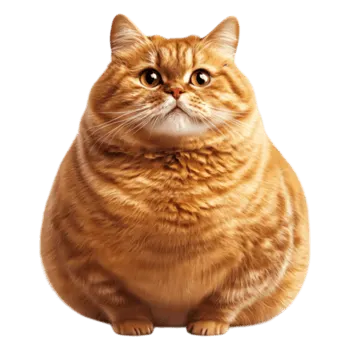
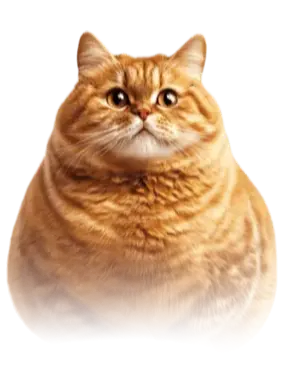
about sec start

diff --git a/src/components/Landing.tsx b/src/components/Landing.tsx
@@ -1,6 +1,5 @@
 import Image from "next/image";
 import React, { useEffect, useState } from "react";
-import GlowFlies from "./GlowFlies";
 import { motion } from "framer-motion";
 import WavingHand from "./WavingHand";
 
@@ -18,11 +17,11 @@ const Landing = () => {
     return () => window.removeEventListener("mousemove", handleMouseMove);
   }, []);
   return (
-    <div className="w-full pt-38 pb-18 h-full ">
+    <div className="w-full  pt-8 h-full ">
       <div className=" ">
-        <div className="flex gap-4 items-center justify-center">
+        <div className="flex gap-4 items-center justify-center  w-[75%] md:w-[90%] mx-auto">
           <WavingHand />
-          <h1 className="text-[clamp(1rem,3vw,1.75rem)] text-white">
+          <h1 className="text-[clamp(1rem,3vw,1.75rem)] text-white  ">
             My name is Ranjana Tamang a Fullstack Developer.
           </h1>
         </div>
@@ -32,34 +31,35 @@ const Landing = () => {
           style={{
             transform: `translate(${mouse.x * -0.02}px, ${mouse.y * -0.02}px)`,
           }}
-          className="absolute   h-[80%]   font-bold  select-none"
+          className="absolute pt-10 md:pt-20   h-[90%]   font-bold  select-none"
         >
-          <span className="uppercase text-transparent [-webkit-text-stroke:4px_white] text-[clamp(4rem,16vw,12rem)]">
+          <span className="uppercase text-transparent [-webkit-text-stroke:4px_white] text-[clamp(4rem,16vw,12rem)] opacity-60">
             Backend
           </span>
         </motion.h1>
 
-        {/* <img src="/hero.png" alt="hero" className="relative z-10 w-80" /> */}
         <div>
           <Image
-            src="/cat.webp"
+            src="/cat.png"
             alt="hero"
             width={1000}
             height={1000}
-            className="relative z-10 w-70 md:w-120 mt-12"
+            className="relative z-10 w-60 md:w-120 mt-12"
           />
-          <div className="absolute inset-y-0 left-1/2 -translate-x-1/2  w-full z-10">
+          {/* <div className="absolute inset-y-0 left-1/2 -translate-x-1/2  w-full z-10">
             <GlowFlies />
-          </div>
+          </div> */}
         </div>
 
         <motion.h1
           style={{
             transform: `translate(${mouse.x * 0.04}px, ${mouse.y * 0.04}px)`,
           }}
-          className="absolute z-20 h-full   font-bold flex items-end    "
+          className="absolute z-20 h-[90%]   font-bold flex items-end    "
         >
-          <span className="text-[clamp(4rem,16vw,12rem)]">& Frontend</span>
+          <span className="text-[clamp(2.5rem,12vw,10rem)] whitespace-nowrap">
+            & FRONTEND
+          </span>
         </motion.h1>
       </section>
     </div>

diff --git a/src/app/layout.tsx b/src/app/layout.tsx
@@ -1,16 +1,13 @@
 import type { Metadata } from "next";
-import { Geist, Geist_Mono } from "next/font/google";
+import { Instrument_Sans } from "next/font/google";
 import "./globals.css";
+
 import SmoothScroll from "@/components/SmoothScroll";
 
-const geistSans = Geist({
-  variable: "--font-geist-sans",
+const instrumentSans = Instrument_Sans({
+  variable: "--font-instrument-sans",
   subsets: ["latin"],
-});
-
-const geistMono = Geist_Mono({
-  variable: "--font-geist-mono",
-  subsets: ["latin"],
+  weight: ["400", "500", "600", "700"], // good for headings + body
 });
 
 export const metadata: Metadata = {
@@ -25,9 +22,8 @@ export default function RootLayout({
 }>) {
   return (
     <html lang="en">
-      <body
-        className={`${geistSans.variable} ${geistMono.variable} antialiased bg-[#010a10]`}
-      >
+      <body className={` ${instrumentSans.variable} antialiased  `}>
+        {"/" !== "/" && <div>asdfsaf</div>}
         <SmoothScroll />
         {children}
       </body>

diff --git a/src/components/Navbar.tsx b/src/components/Navbar.tsx
@@ -18,16 +18,16 @@ const Navbar = () => {
   return (
     <header
       className={`
-        fixed top-0 left-0 w-full  z-50 transition-all duration-300
-        ${scrolled ? "bg-[#01070ed0] backdrop-blur-md" : "bg-transparent"}
+        fixed top-0 left-0 w-full    z-50 transition-all duration-300
+        ${scrolled ? "bg-[#06131bd0] backdrop-blur-md" : "bg-transparent"}
       `}
     >
-      <nav className="relative flex items-center justify-between px-40 py-4">
+      <nav className="relative flex items-center justify-between container_my py-4">
         {/* Logo */}
         <div className="text-white font-bold text-xl">Ranjana</div>
 
         {/* Menu */}
-        <div className="flex gap-6 text-white">
+        <div className="  gap-6 text-white hidden md:flex">
           <Link href="/">Home</Link>
           <Link href="/about">About</Link>
           <Link href="/projects">Projects</Link>

diff --git a/src/components/Hero.tsx b/src/components/Hero.tsx
@@ -1,22 +1,19 @@
 "use client";
 
-
-import Image from "next/image"; 
+import Image from "next/image";
 import BubbleColumn from "./BubbleColumn";
 import GlowFlies from "./GlowFlies";
 import Navbar from "./Navbar";
 import Landing from "./Landing";
 
 export default function Hero() {
-  
-
   return (
     <section className="relative     w-full  ">
       <Image
         src="/banner-shape-light.svg"
         alt="background"
-        fill
         className="  absolute z-0  "
+        fill
       />
       <Navbar />
 
@@ -26,9 +23,9 @@ export default function Hero() {
       <div className="absolute inset-y-0 left-1/2 -translate-x-1/2  w-full">
         <GlowFlies />
       </div>
-      <Landing />
-
-      
+      <div className="pt-20">
+        <Landing />
+      </div>
     </section>
   );
 }

diff --git a/src/components/SmallCard.tsx b/src/components/SmallCard.tsx
@@ -1,0 +1,25 @@
+import React from "react";
+
+const SmallCard = () => {
+  return (
+    <div className="group relative w-64 h-40 rounded-xl p-[2px]">
+      <div
+        className="
+          absolute inset-0 rounded-xl opacity-0
+          transition-opacity duration-500
+          group-hover:opacity-100
+          bg-[linear-gradient(135deg,#13fdfd_0%,#06131b_45%,#06131b_55%,#13fdfd_100%)]
+        "
+      />
+
+      <div className="relative z-10 h-full w-full rounded-[10px] bg-[#06131b] p-4">
+        <h1 className="text-white text-sm">fsaasf asdfsadf asdf sadf</h1>
+        <div className="mt-2 bg-[#13fdfd] text-black px-2 py-1 inline-block rounded">
+          dafd
+        </div>
+      </div>
+    </div>
+  );
+};
+
+export default SmallCard;

diff --git a/src/components/AboutMe.tsx b/src/components/AboutMe.tsx
@@ -1,0 +1,25 @@
+import React from "react";
+import SmallCard from "./SmallCard";
+
+const AboutMe = () => {
+  return (
+    <div className="container_my">
+      <div>
+        <div>
+          <p>About Me</p>
+          <h1>Boost Business Strategic Solutions with Us</h1>
+          <h3>
+            Business consulting consultants provide expert advice and guida
+            businesses to help them improve their performance, efficiency, and
+            organizational
+          </h3>
+        </div>
+        <div>
+          <SmallCard />
+        </div>
+      </div>
+    </div>
+  );
+};
+
+export default AboutMe;

diff --git a/src/app/globals.css b/src/app/globals.css
@@ -8,8 +8,12 @@
 @theme inline {
   --color-background: var(--background);
   --color-foreground: var(--foreground);
-  --font-sans: var(--font-geist-sans);
-  --font-mono: var(--font-geist-mono);
+}
+/* Custom container */
+@layer components {
+  .container_my {
+    @apply w-full mx-auto  px-4  sm:px-6  lg:px-8 xl:px-16 2xl:px-20;
+  }
 }
 
 @media (prefers-color-scheme: dark) {
@@ -22,7 +26,6 @@
 body {
   background: var(--background);
   color: var(--foreground);
-  font-family: Arial, Helvetica, sans-serif;
 }
 .glow-line {
   position: absolute;

diff --git a/src/app/page.tsx b/src/app/page.tsx
@@ -1,11 +1,13 @@
- 
-import Hero from "@/components/Hero"; 
+import AboutMe from "@/components/AboutMe";
+import Hero from "@/components/Hero";
 
 export default function Home() {
   return (
     <>
-      <div>
+      <div className="bg-[#010a10] font-instrument ">
         <Hero />
+        <AboutMe />
+
         <div className="h-screen bg-amber-200"></div>
         <div className="h-screen bg-amber-200"></div>
         <div className="h-screen bg-amber-200"></div>

diff --git a/tailwind.config.ts b/tailwind.config.ts
@@ -1,0 +1,15 @@
+import type { Config } from "tailwindcss";
+
+const config: Config = {
+  content: ["./app/**/*.{js,ts,jsx,tsx}", "./components/**/*.{js,ts,jsx,tsx}"],
+  theme: {
+    extend: {
+      fontFamily: { 
+        instrument: ["var(--font-instrument-sans)"],
+      },
+    },
+  },
+  plugins: [],
+};
+
+export default config;
